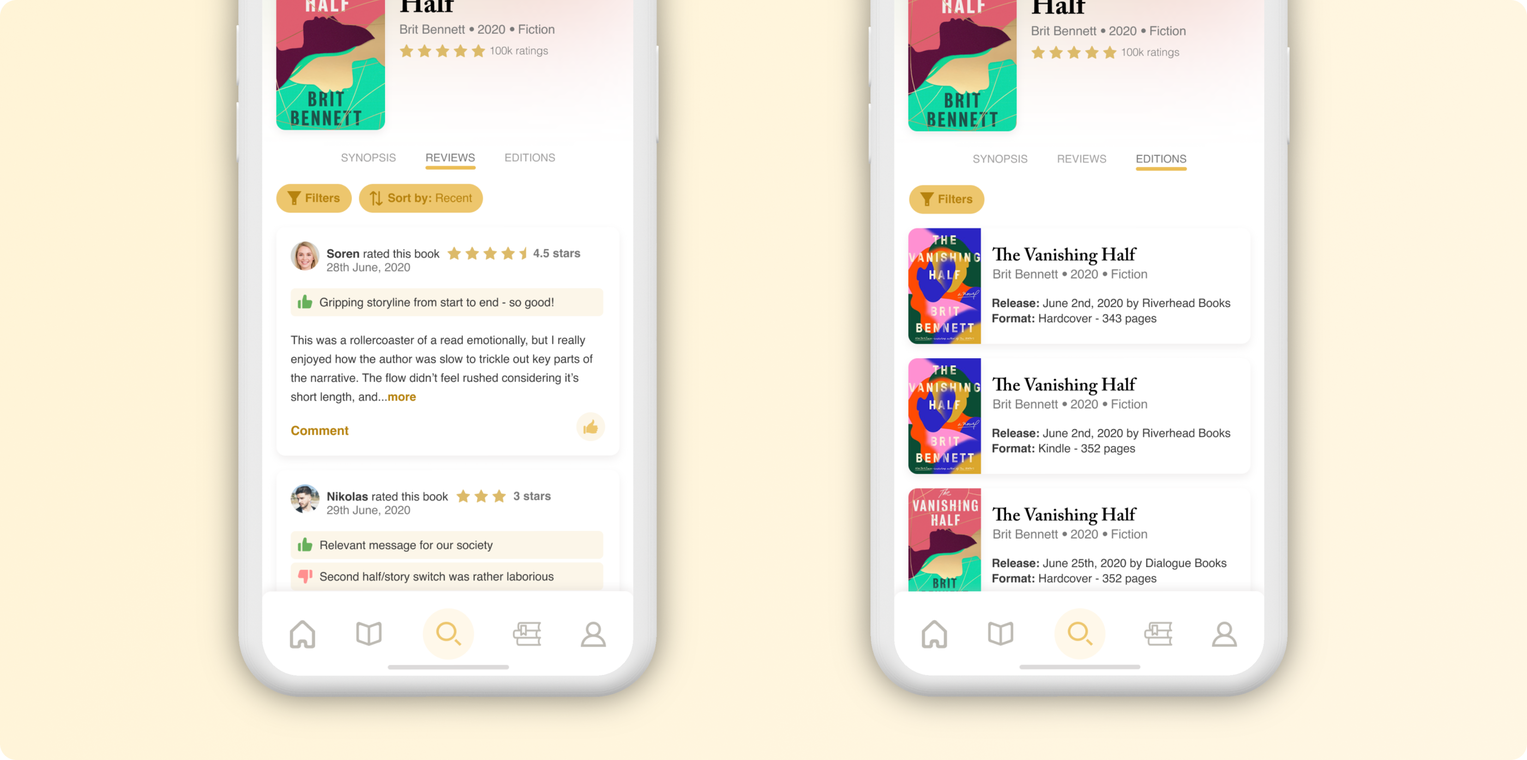
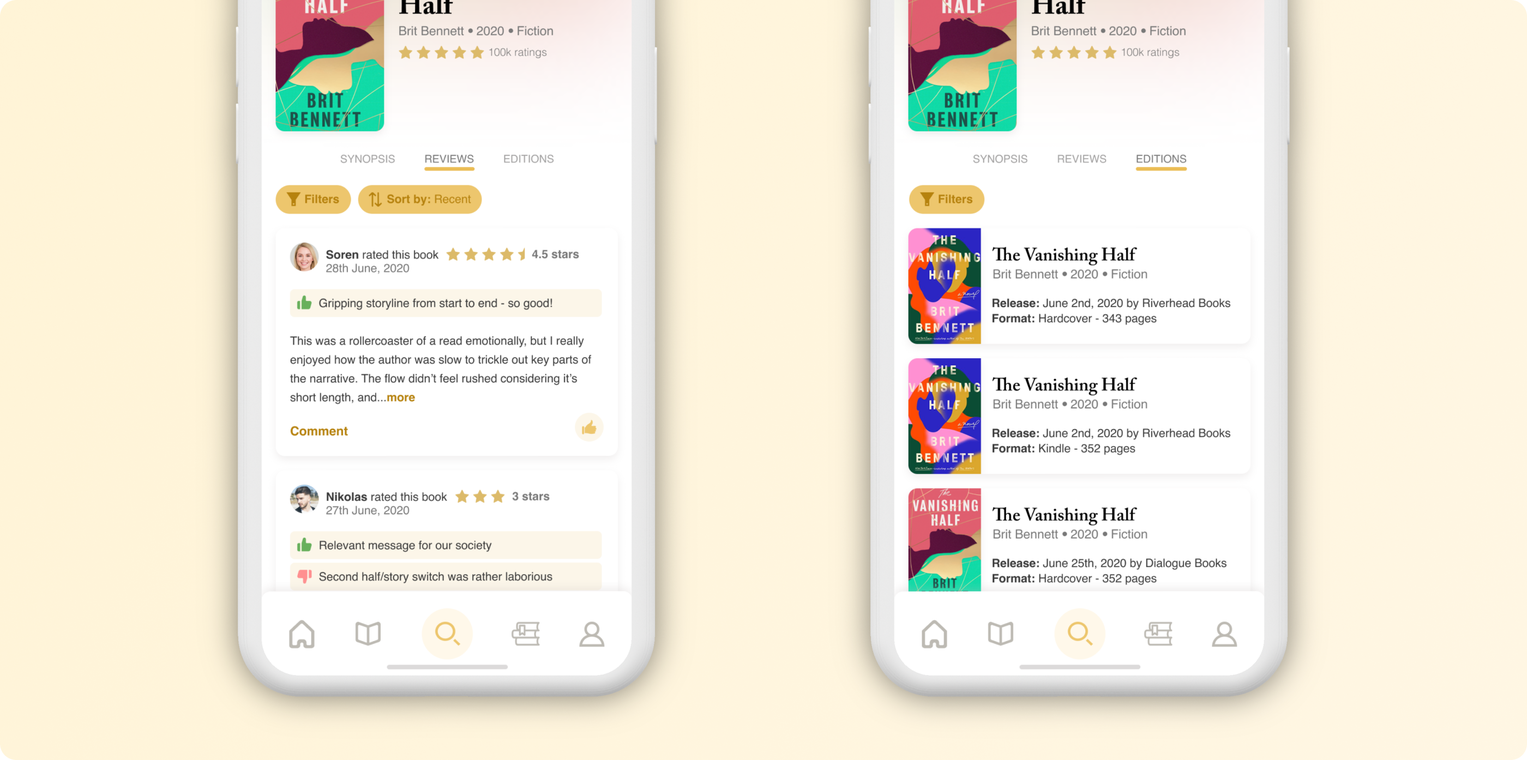
Aligning Goodreads post with article on Medium

diff --git a/project/0-goodreads.html b/project/0-goodreads.html
@@ -204,28 +204,39 @@
 <hr />
 
 <h2 id="background">Background</h2>
-<p>I love reading. It’s a safe place; one where I can let my mind go in whatever direction it wants. I also find great joy in sharing the experience of reading with others. Getting excited over a book with a friend, sharing insights, theories, and reflections over a coffee or glass of wine; it is one of the great joys of my life.</p>
+<p>I love reading. It’s a safe place; one where I can let my mind wander in whatever way it wills. I also love sharing the experience of reading with others. Getting excited about a book with a friend, sharing insights, theories, and reflections over a coffee or glass of wine; it is one of the great joys of my life.</p>
 
-<p>For many years Goodreads has been my reading companion app of choice. Despite a scattered few competitors in the market, it remains the primary online platform for book recommendations and social cataloguing. The product is a mix of social networking, book progressions, recommendation engines, and cataloguing. The initial offering was launched in 2007 and became acquired by Amazon in 2013.
-Since it’s acquisition, the product has remained stagnant on several fronts. Core functionality hasn’t adapted with modern web and design standards, and the user experience (UX) is lacking in several key areas. Similarly, the user interface (UI) is outdated and aesthetically bound to yesteryears Web 2.0 design language. As essentially the ‘only choice’ for reading enthusiasts in the digital space it’s fair to be flabbergasted by i) the fact that 90 million people are enduring an otherwise subpar experience, and ii) the reality that no one has come along to disrupt the market.</p>
+<p>For many years Goodreads has been my reading companion app of choice. Despite a scattered few competitors in the market, it remains the primary online platform for book recommendations and social cataloging. The product is a mix of networking, book progressions, recommendation engines, and shelf sorting. The initial offering was launched in 2007 and became acquired by Amazon in 2013.</p>
+
+<p>Since its acquisition, the product has remained stagnant on several fronts. Core functionality hasn’t adapted with modern web and design standards, and the user experience (UX) is lacking in several key areas. Similarly, the user interface (UI) is outdated and aesthetically bound to yesteryears Web 2.0 design language. As essentially the ‘only choice’ for reading enthusiasts in the digital space it’s fair to be flabbergasted by i) the fact that a large user base is enduring an otherwise subpar experience, and ii) the reality that no one has come along to disrupt the market.</p>
 
 <p>As both a user of this service, and someone who was looking to add something to their design portfolio, I thought it’d be fun to look at Goodreads from a product design perspective and conduct an unsolicited, conceptual redesign of the iOS app. I’ve never designed a mobile app before, so I was excited at the prospect of giving it a shot.</p>
 
-<p><strong>Disclaimer</strong>: I am in no way associated with Goodreads. As mentioned, this is very much an unsolicited design attempt - one which is conceptual at heart and by no means an exhaustive, end to end product overhaul.</p>
+<p><strong>Disclaimer</strong>: I am in no way associated with Goodreads or Amazon. As mentioned, this is very much an unsolicited design attempt — one which is conceptual at heart and by no means an exhaustive, end to end product overhaul.</p>
 
 <hr />
 
 <h2 id="mission">Mission</h2>
-<p>The mission was initially simple: I wanted to chat with a few friends who use Goodreads, gather some of their pain points (adding my own into the mix), and mock up 2 or 3 screens with a 2020 design mindset.
-It played out differently in actuality. My partner (who is an avid reader) runs a casual book-themed Instagram account, and by proxy is connected with active reading communities from all around the world. It dawned on me that, via her tribe of reading friends, I had access to actual users - people who I’m sure were both on Goodreads and had something to say about it.
-I devised a simple UX survey and asked if she’d post it on her account. A few days later I had 50 responses from users who had graciously shared their reflections.
-With the backing of real user reflections and stories, and a product-design focus, the mission became: to conceptually redesign some of the core screens of Goodreads, implementing UX-supported user feedback/stories whilst aligning the design language with modern standards, producing basic prototypes in the process.</p>
+<p>The mission was initially simple: I wanted to chat with a few friends who use Goodreads, gather some of their pain points (adding my own into the mix), and mock up 2 or 3 screens with a 2020 design mindset.</p>
+
+<p>It played out differently in actuality. My partner (who is an avid reader) runs a casual <a href="https://www.instagram.com/laura_reads_/">book-themed Instagram account</a>, and by proxy is connected with active reading communities from all around the world. It dawned on me that, via her tribe of reading friends, I had access to actual users — people who I’m sure were both on Goodreads and had something to say about it.</p>
+
+<p>I devised a simple UX survey and asked if she’d post it on her account. A few days later I had 50 responses from users who had graciously shared their reflections.</p>
+
+<p>With the backing of real user reflections and stories, and a product-design focus, the mission became:</p>
+
+<ul>
+  <li>Conceptually redesign some of the core screens of Goodreads</li>
+  <li>Implement UX-supported user feedback/stories whilst aligning the design language with modern standards</li>
+  <li>Produce basic prototypes in the process</li>
+</ul>
 
 <hr />
 
 <h2 id="method">Method</h2>
-<p>Experimenting with a new visual identity for a product or service is something I love to do, and visual design is definitely one of my favourite parts of my job. However, I wanted to remain disciplined to a more traditional product design approach (to a degree; again, this isn’t an exhaustive end-to-end product overhaul) to ensure my own biases weren’t unnecessarily guiding my design efforts. Hearing about how other users engage with the product, in ways I don’t, gave me a much more holistic view of the service Goodreads offers, and therefore informed what I chose to dedicate efforts towards for the redesign initiative.
-As part of the discipline piece I reflected on several pitfalls I wanted to avoid:</p>
+<p>Experimenting with a new visual identity for a product or service is something I love to do, and visual design is definitely one of my favourite parts of my job. However, I wanted to remain disciplined to a more traditional product design approach to ensure my own biases weren’t unnecessarily guiding my design efforts. Hearing about how other users engage with the product, in ways I don’t, gave me a much more holistic view of the service Goodreads offers, and therefore informed what I chose to dedicate efforts towards for the redesign initiative.</p>
+
+<p>As part of the discipline piece I reflected on several pitfalls I wanted to avoid:</p>
 
 <ul>
   <li>Conceptualising a design that completely disregards current branding</li>
@@ -238,24 +249,25 @@ As part of the discipline piece I reflected on several pitfalls I wanted to avoi
 <h3 id="user-experience-ux">User Experience (UX)</h3>
 
 <h4 id="understand">Understand</h4>
-<p>Abraham Lincoln was once quoted as saying “Give me six hours to chop down a tree and I will spend the first four sharpening the axe”. Similarly, with digital product design, in the UX phase, we feel obligated to serve the user and ensure we know what the problem is before we go about solving it.</p>
+<p>Abraham Lincoln was once quoted as saying “Give me six hours to chop down a tree and I will spend the first four sharpening the axe”. Similarly with digital product design, in the UX phase, we feel obligated to serve the user and ensure we know what the problem is before we go about solving it.</p>
 
-<p>Through my humble yet insightful Google Forms (like I said - it’s a small side project!) UX survey I was able to ascertain several high-level, key pain points users were experiencing.</p>
+<p>Through my humble yet insightful Google Forms (like I said — it’s a small side project!) UX survey I was able to ascertain several high-level, key pain points users were experiencing.</p>
 
 <h4 id="research">Research</h4>
-<p>If this was an entire product overhaul I’d be looking to do a lot more than a UX survey as the core piece of the UX phase, however the scale and nature of this initiative called for something smaller and quicker so I could finish the project in the foreseeable future.
-The UX survey I sent out was divided into 4 main sections:</p>
+<p>If this was an entire product overhaul I’d be looking to do a lot more than a UX survey as the core piece of the UX phase, however the scale and nature of this initiative called for something smaller and quicker so I could finish the project in the foreseeable future.</p>
 
-<p><strong>General usage</strong>: These questions were designed for gathering insights on things such as the amount of time the user had been on the platform, how often they engage with the service, and what screens/functions they use most frequently.</p>
+<p>The UX survey was divided into 4 main sections:</p>
 
-<p><strong>Community</strong>: These questions were designed for gathering insights on how socially interactive users were, and how their behaviour around engaging with other users shaped their sense of connection with friends and authors.</p>
+<p><strong>General usage</strong>: these questions were designed for gathering insights on things such as the amount of time the user had been on the platform, how often they engage with the service, and what screens/functions they use most frequently.</p>
 
-<p><strong>Experience</strong>: These questions were designed for gathering insights on smaller, micro-behaviours such as the tendency of a user to leave a star rating and how they use the search function.</p>
+<p><strong>Community</strong>: these questions were designed for gathering insights on how socially interactive users were, and how their behaviour around engaging with other users shaped their sense of connection with friends and authors.</p>
 
-<p><strong>Design</strong>: These questions were designed for gathering insights on how the user viewed the aesthetic nature of Gooodreads and how they engaged with the different design languages between the desktop and app experiences.</p>
+<p><strong>Experience</strong>: these questions were designed for gathering insights on smaller, micro-behaviours such as the tendency of a user to leave a star rating and how they use the search function.</p>
+
+<p><strong>Design</strong>: these questions were designed for gathering insights on how the user viewed the aesthetic nature of Gooodreads and how they engaged with the different design languages between the desktop and app.</p>
 
 <h4 id="define">Define</h4>
-<p>The define phase of this project involved collecting data from the initial research phase, collating insights, and synthesising these data points into a meaningful and usable body of knowledge - represented in the form of pain points, user stories, and personas.</p>
+<p>The define phase of this project involved collecting data from the initial research phase, collating insights, and synthesising these data points into a meaningful and usable body of knowledge — represented in the form of pain points, user stories, and personas.</p>
 
 <p>Some of the high-level pain points to come out of the survey included:</p>
 
@@ -284,7 +296,7 @@ The UX survey I sent out was divided into 4 main sections:</p>
 	" /></div>
 
 <h5 id="navigation-is-confusing">Navigation is confusing</h5>
-<p>The Goodreads service runs surprisingly deep from a desktop site offerings perspective, so naturally there’s a process involved in presenting a consumable set of navigational options in an app environment with less screen estate. Users stated that finding their way around the Goodreads app was difficult, and that some of their more frequently used screens/functions weren’t readily accessible.</p>
+<p>The Goodreads service runs surprisingly deep from a desktop site offerings perspective, so naturally there’s a process of elimination involved in presenting a consumable set of navigational options in an app environment with less screen estate. Users stated that finding their way around the Goodreads app was difficult, and that some of their more frequently used screens/functions weren’t readily accessible.</p>
 
 <p><em>“It’s clunky, the navigation is not easy to work out and often it is hard to get back to the page you were previously on”</em></p>
 
@@ -296,7 +308,7 @@ The UX survey I sent out was divided into 4 main sections:</p>
 	" /></div>
 
 <h5 id="aesthetic-is-dull-and-uninspiring">Aesthetic is dull and uninspiring</h5>
-<p>Users in 2020 have high expectations of apps, and there’s only so much they’ll put up with when it comes to something which looks (and acts) outdated. Users shared reflections pertaining to a cluttered UI, something that looks severely outdated, and doesn’t excite them to use it.</p>
+<p>Users in 2020 have high expectations of apps, and there’s only so much they’ll put up with when it comes to something which looks (and acts) outdated. Users shared reflections pertaining to a cluttered UI - something that looks severely outdated, and isn’t a delight to use/look at.</p>
 
 <p><em>“It’s outdated and clunky and definitely needs a complete overhaul”</em></p>
 
@@ -307,8 +319,8 @@ The UX survey I sent out was divided into 4 main sections:</p>
 <div class="gallery full-width" data-columns="1"><img src="/images/projects/goodreads/Pain_point_Aesthetic.png
 	" /></div>
 
-<h5 id="mobile-app-is-missing-some-functions-that-the-desktop-site-has-which-is-frustrating">Mobile app is missing some functions that the desktop site has which is frustrating</h5>
-<p>As mentioned in the navigation pain point, there are several pieces of functionality missing from the app experience which would enhance several user workflows. Users shared comments around an inability to find their friends list, not being able to change editions of the books they’re reading, and frustration that notifications were missing.</p>
+<h5 id="mobile-app-is-missing-some-functions-that-the-desktop-site-offers">Mobile app is missing some functions that the desktop site offers</h5>
+<p>As mentioned in the navigation pain point, there are several pieces of functionality missing from the app experience which would enhance user workflows. Users shared comments around an inability to find their friends list, the restriction around changing editions of the books they’re reading, and the absence of notifications on a mobile OS level.</p>
 
 <p><em>“It has some stuff I make use of frequently; such as changing book types (hardcover/softcover and therefore page numbers) which I’d LOVE to see on the app one day.”</em></p>
 
@@ -322,7 +334,7 @@ The UX survey I sent out was divided into 4 main sections:</p>
 <h4 id="needs">Needs</h4>
 <p>Based on the above findings I ascertained that the following could be considered as user needs, which in due course would influence the design:</p>
 
-<p><strong>The ability to search in a way that serves the multifaceted nature of looking for a book</strong>: The limitation Goodreads currently places on searching seems nonsensical. Book titles need to be entered with zero grammatical errors in order to be returned. Similarly with author names. A lack of specificity isn’t catered for, which is in stark contrast with the Google way of viewing the search experience (key words, sensible predictions etc)</p>
+<p><strong>The ability to search in a way that serves the multifaceted nature of looking for a book</strong>: The limitation Goodreads currently places on searching seems nonsensical. Book titles need to be entered with zero grammatical errors in order to be returned form the back-end (similarly with author names). A lack of specificity isn’t catered for, which is in stark contrast with the Google way of viewing the search experience (key words, sensible predictions etc.)</p>
 
 <p><strong>The ability to make reading progress updates quickly, and to limit the friction of reviewing a book</strong>: Updating reading progress is a core user behaviour. Sometimes done on a daily basis, the action needs to be readily accessible and fluent; able to be engaged with in a swift but meaningful way.</p>
 
@@ -354,7 +366,7 @@ The UX survey I sent out was divided into 4 main sections:</p>
 	" /></div>
 
 <h4 id="wireframes">Wireframes</h4>
-<p>After sketching reached a point where I felt confident with some ideas, I jumped into Adobe XD (I often used Whimsical or Axure for such purposes, but there was a spirit of experimentation in this project - so I tried something different) and explored some more comprehensive layouts.</p>
+<p>After sketching reached a point where I felt confident with some ideas, I jumped into Adobe XD (I often used Whimsical or Axure for such purposes, but there was a spirit of experimentation in this project — so I tried something different) and explored some more comprehensive layouts.</p>
 
 <div class="gallery full-width" data-columns="1"><img src="/images/projects/goodreads/wireframes.png
 	" /></div>
@@ -382,14 +394,14 @@ Cards have been simplified. The removal of the current ‘Add to shelf’ call t
 
 <p><strong>Comments</strong></p>
 
-<p>Comments have their own bottom sheet to curate a more immersive social experience. Users have more screen estate to see more discussion, and the new ‘Reply’ functionality allows for more direct communication between specific friends. Tagging has also been introduced.</p>
+<p>Comments have their own bottom sheet to curate a more immersive social experience. Users have more screen estate to see more discussion, and the new ‘Reply’ functionality allows for more direct communication between specific comments. Tagging has also been introduced.</p>
 
 <div class="gallery full-width" data-columns="1"><img src="/images/projects/goodreads/1.1_New comments_emotes_badges.png
 	" /></div>
 
 <p><strong>Emotes</strong></p>
 
-<p>The ability to ‘react’ to a general activity update has been introduced. This was brought in to, again, promote more social interaction. One of the main focus points of this redesign was to promote a greater proximity to users and their friends. Giving users the ability to express themselves in playful ways helps this cause, and ideally encourages frivolity.</p>
+<p>The ability to ‘react’ to a general activity update has been introduced. This was brought in to promote more social interaction. One of the main focus points of this redesign was to convey a greater relational proximity between users and their friends. Giving users the ability to express themselves in playful ways helps this cause, and ideally encourages book-related frivolity.</p>
 
 <p><strong>Badges</strong></p>
 
@@ -400,7 +412,7 @@ Cards have been simplified. The removal of the current ‘Add to shelf’ call t
 <div class="gallery full-width" data-columns="1"><img src="/images/projects/goodreads/2_New_updates.png
 	" /></div>
 
-<p>Updates have been designed for rapid interaction. Via a bottom sheet, the user can swipe through books they’re currently reading, tap a simple input to update what page they’re up to, and move on. If they choose to tap the ‘I’m finished’ CTA, they’re navigated to the review flow.</p>
+<p>Updates have been designed for rapid interaction. Via a bottom sheet, the user can swipe through books they’re currently reading, tap an input to update what page they’re up to, and move on. If they choose to tap the ‘I’m finished’ CTA, they’re navigated to the review flow.</p>
 
 <h4 id="reviewing">Reviewing</h4>
 
@@ -413,7 +425,7 @@ Cards have been simplified. The removal of the current ‘Add to shelf’ call t
 
 <p><strong>Review comment vs thumbs up/down</strong></p>
 
-<p>This was one of the more peculiar UX insights. A significant number of users said that star ratings and reviews on books serve as a major influence on their decision to read a book. Yet, only a small number of them indicated that they themselves leave comments as part of their reviewing process (the more common user flow was to leave a star rating and submit). To promote buy-in to the review economy, I explored an alternative way of leaving a review comment, in the form of ‘thumbs up’ and ‘thumbs down’ comments. Should the user wish to share a thought on something they liked, instead of bothering with a fully formed string of sentences, they can do so.</p>
+<p>This was one of the more peculiar UX insights. A significant number of users said that star ratings and reviews on books serve as a major influence on their decision to read a book. Yet, only a small number of them indicated that they themselves leave comments as part of their reviewing process (the more common user flow was to leave a star rating and submit). To promote buy-in to the review economy, I explored an alternative way of leaving a review comment, in the form of simple ‘thumbs up’ and ‘thumbs down’ comments. Should the user wish to share a thought on something they liked, instead of bothering with a fully formed string of sentences, they can do so via this new method.</p>
 
 <h4 id="search">Search</h4>
 
@@ -427,14 +439,14 @@ Cards have been simplified. The removal of the current ‘Add to shelf’ call t
 <div class="gallery full-width" data-columns="1"><img src="/images/projects/goodreads/5_New_shelf.png
 	" /></div>
 
-<p>Users reported that using/viewing custom bookshelves, especially the in-built ‘Want to read’ shelf, was a persistent act for their workflow. The ‘Shelf’ screen has been redesigned to give visual prominence to both the ‘Want to read’ and ‘Favourites’ shelves. For user-created shelves a tabbed-based component has been used to allow for quick switching between them.</p>
+<p>Users reported that using/viewing custom bookshelves, especially the in-built ‘Want to read’ shelf, was a persistent part for their workflow. The ‘Shelf’ screen has been redesigned to give visual prominence to both the ‘Want to read’ and ‘Favourites’ shelves. For user-created shelves a tabbed-based component has been used to allow for quick switching between them.</p>
 
 <h4 id="my-accountnotifications">My Account/Notifications</h4>
 
 <div class="gallery full-width" data-columns="1"><img src="/images/projects/goodreads/6_New_profile.png
 	" /></div>
 
-<p><strong>Profile</strong></p>
+<p><strong>Account</strong></p>
 
 <p>The Account panel follows a similar framework notion to the individual book sheet, whereby a pop out menu is deployed for quick reference and quick dismissal to avoid unnecessary interruption to the user flow.</p>
 
@@ -442,14 +454,14 @@ Cards have been simplified. The removal of the current ‘Add to shelf’ call t
 
 <p>Notifications are situated inside the ‘Profile’ pop out menu. Restrictions in the information architecture (IA) of the bottom nav meant something has to be amalgamated, so as to avoid having excessive icons along the bottom of the app. Notifications are displayed as minimal cards, sorted by default from newest to oldest, with ‘unseen’ notifications employing a slightly off-white background. Notifications are able to be cleared via a simple ‘Clear’ link. Tapping notification takes the user to the appropriate page/sheet for further engagement.</p>
 
-<h4 id="individual-book-screensheet">Individual Book (screen/sheet)</h4>
+<h4 id="individual-book-sheetscreen">Individual Book (sheet/screen)</h4>
 
 <div class="gallery full-width" data-columns="1"><img src="/images/projects/goodreads/7_New_individual_book.png
 	" /></div>
 
 <p><strong>Sheets</strong></p>
 
-<p>Clicking on a book cover from anywhere in the app exposes a bottom sheet, where information about the book is exposed. The decision to use a sheet was to avoid interrupting the user flow in an invasive way. Enabling the user to read more or simply collapse the sheet and move on was the main desire here.</p>
+<p>Clicking on a book cover from anywhere in the app exposes a bottom sheet, where contextual information about the book is exposed. The decision to use a sheet was to help avoid interrupting the user flow in an invasive way. Enabling the user to read more or simply collapse the sheet and move on was the main desire here.</p>
 
 <p><img src="/images/projects/goodreads/3_Goodreads_bottom_sheet.gif" alt="" /></p>
 
@@ -462,7 +474,7 @@ Cards have been simplified. The removal of the current ‘Add to shelf’ call t
 
 <p>Review cards are shown, by default, from newest to oldest. Users are able to comment or react to individual reviews. Filtering options give the end user the ability to show reviews with specific star ratings along with other additional options.</p>
 
-<p>The inability to change the edition of a book via the app was a major pain point for users. This design considers the desire for this workflow and lists all the editions of a book via the ‘Editions’ tab, with the ability to filter by type (soft cover, hard cover, Kindle etc).</p>
+<p>The inability to change the edition of a book via the app was a major pain point for users. This design considers the desire for this workflow and therefore lists all the editions of a book via the ‘Editions’ tab, with the ability to filter by type (soft cover, hard cover, Kindle etc).</p>
 
 <p><img src="/images/projects/goodreads/1_Goodreads_book_tabs.gif" alt="" /></p>
 
@@ -479,30 +491,31 @@ Cards have been simplified. The removal of the current ‘Add to shelf’ call t
 
 <p><img src="/images/projects/goodreads/4_Goodreads_list.gif" alt="" /></p>
 
-<h4 id="profile">Profile</h4>
+<h4 id="profiles">Profiles</h4>
 
 <div class="gallery full-width" data-columns="1"><img src="/images/projects/goodreads/9_New_profile.png
 	" /></div>
 
-<p>The profile screen has been designed in a way that showcases more meaningful information about the user on first view. Books they’re currently reading and their reading challenge for the year (something nearly all users reported as engaging with) takes the limelight, after which custom shelves are listed.</p>
+<p>The profile screen has been designed in a way that showcases more meaningful information about the user on first view. Books they’re currently reading and their reading challenge for the year (something nearly all users reported as engaging with) takes the limelight, afterwich custom shelves are listed.</p>
 
-<p>Badges and lists that the user has created also feature on the profile screen.
-Connected social accounts are also shown, allowing users to connect with each other on alternative platforms.</p>
+<p>Badges and lists that the user has created also feature on the profile screen.</p>
 
-<p>A clear ‘Add friend’ icon button is featured in the top left of the screen. Should the user already be connected, this will be converted to a ‘Message’ icon button (although it should be noted that nearly all survey respondents stated they they don’t use the inbox feature on Goodreads - so this would be need to be thought out a bit more)</p>
+<p>Connected social accounts are also shown, allowing users to connect with each other on alternative platforms.</p>
+
+<p>A clear ‘Add friend’ icon button is featured in the top left of the screen. Should the user already be connected, this will be converted to a ‘Message’ icon button (although it should be noted that nearly all survey respondents stated they they don’t use the inbox feature on Goodreads — so this would be need to be thought out a bit more.)</p>
 
 <h4 id="reading-challenge">Reading Challenge</h4>
 
 <div class="gallery full-width" data-columns="1"><img src="/images/projects/goodreads/10_New_challenge.png
 	" /></div>
 
-<p>The yearly reading challenge screen has only received minimal aesthetic change. Users reported that one of the main reasons they used the reading challenge was for a more presentable list of books they’ve read that year. For this reason books on this screen forgo the horizontal scroll style seen on other screens and instead follow a traditional grid pattern - allowing for quick consumption.</p>
+<p>The yearly reading challenge screen has only received minimal aesthetic change. Users reported that one of the main reasons they used the reading challenge was for a more presentable list of books they’ve read that year. For this reason books on this screen forgo the horizontal scroll style seen on other screens and instead follow a traditional grid pattern — allowing for quick consumption.</p>
 
 <hr />
 
 <h3 id="reflections">Reflections</h3>
 
-<p>This was an enriching experience. Having never done mobile app design before it really pushed me to think about the intricacies, limitations, and opportunities of cross-platform design. As I audited the desktop ‘full’ experience of Goodreads I felt challenged, on numerous occasions, to hold up the value proposition of feature x versus feature y - considering the restrictions, both from a screen estate and functionality perspective, of mobile design. The UX survey assisted me greatly in this space, and definitely helped clarify my own observations.</p>
+<p>This was an enriching experience. Having never done mobile app design before it really pushed me to think about the intricacies, limitations, and opportunities of cross-platform design. As I audited the desktop ‘full’ experience of Goodreads I felt challenged, on numerous occasions, to hold up the value proposition of feature x versus feature y — considering the restrictions, both from a screen estate and functionality perspective, of mobile design. The UX survey assisted me greatly in this space, and definitely helped clarify my own observations.</p>
 
 <p>There are all sorts of areas of the Goodreads app not included in this design study. At some stage I’d like to explore:</p>
 
@@ -512,9 +525,10 @@ Connected social accounts are also shown, allowing users to connect with each ot
   <li>The <strong>author pages</strong> (the foundations of this page were possibly covered when I designed the individual user profile page - however I say this without having exercised deep thought to how author pages may</li>
   <li>How a <strong>simple online shopping integration</strong> might work for independent book stores - whereby users could see where a book is available within close geographical proximity</li>
   <li><strong>Highlights</strong> (I feel as though these are undervalued with the current app offering - so there’s an opportunity here)</li>
-  <li>I used <strong>Framer</strong> as my prototyping tool of choice. I came to understand that it’s an extremely deep tool, rich with features which I’d like to explore in the future so I can make more comprehensive prototypes.</li>
   <li>Many other features I thought of during this process during “aha!” moments but have since escaped my mind!</li>
 </ul>
+
+<p>Outside the realm of the app, I used <strong>Framer</strong> as my prototyping tool of choice. I came to understand that it’s an extremely deep tool, rich with features which I’d like to explore in the future so I can make more comprehensive prototypes.</p>
 
 <p>At a later stage I’d love to explore the Android app, as well as the desktop site, for conceptual redesigns.</p>
 
